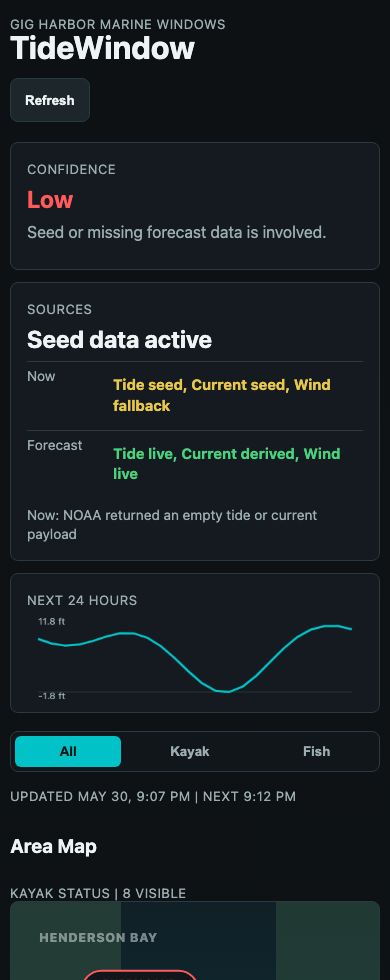
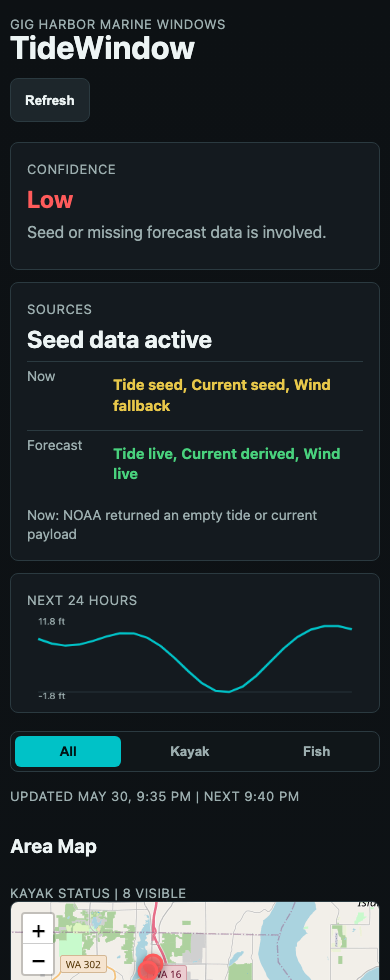
Replace schematic with Leaflet map

Changed region(s): [[0.0308, 0.9184, 0.9846, 1.0], [0.4, 0.7959, 0.7692, 0.8265]]

diff --git a/static/app.js b/static/app.js
@@ -10,6 +10,8 @@ const state = {
   nextRefreshAt: null,
   refreshTimer: null,
   visibleZoneIds: [],
+  leafletMap: null,
+  leafletMarkers: [],
 };
 
 const zoneDetails = {
@@ -278,30 +280,60 @@ function renderMap() {
     return;
   }
 
-  elements.zoneMap.innerHTML = `
-    <div class="map-water"></div>
-    <span class="map-label map-label-north">Henderson Bay</span>
-    <span class="map-label map-label-center">Gig Harbor</span>
-    <span class="map-label map-label-south">Hale Passage</span>
-    ${zones.map((zone) => {
-      const evaluation = mode === "Fish" ? zone.fish : zone.kayak;
-      return `
-        <button
-          class="map-marker status-${evaluation.color}"
-          type="button"
-          style="left: ${Number(zone.map.x)}%; top: ${Number(zone.map.y)}%;"
-          data-zone-id="${escapeHtml(zone.id)}"
-          title="${escapeHtml(zone.title)}"
-        >
-          <span>${escapeHtml(shortZoneTitle(zone.title))}</span>
-        </button>
-      `;
-    }).join("")}
-  `;
+  if (!window.L) {
+    elements.zoneMap.innerHTML = `<div class="empty">Leaflet map assets did not load.</div>`;
+    return;
+  }
 
-  elements.zoneMap.querySelectorAll(".map-marker").forEach((button) => {
-    button.addEventListener("click", () => openZoneDetails(button.dataset.zoneId));
+  initializeLeafletMap();
+  state.leafletMarkers.forEach((marker) => marker.remove());
+  state.leafletMarkers = [];
+
+  const bounds = [];
+  zones.forEach((zone) => {
+    if (!zone.map?.lat || !zone.map?.lon) return;
+    const evaluation = mode === "Fish" ? zone.fish : zone.kayak;
+    const marker = L.circleMarker([zone.map.lat, zone.map.lon], {
+      className: `leaflet-status-circle status-${evaluation.color}`,
+      radius: 9,
+      color: statusColor(evaluation.color),
+      fillColor: statusColor(evaluation.color),
+      fillOpacity: 0.72,
+      weight: 3,
+      title: zone.title,
+    });
+
+    marker.bindTooltip(`${zone.title}: ${evaluation.status}`, {
+      direction: "top",
+      offset: [0, -12],
+    });
+    marker.on("click", () => openZoneDetails(zone.id));
+    marker.addTo(state.leafletMap);
+    state.leafletMarkers.push(marker);
+    bounds.push([zone.map.lat, zone.map.lon]);
   });
+
+  if (bounds.length > 1) {
+    state.leafletMap.fitBounds(bounds, { padding: [38, 38], maxZoom: 12 });
+  } else if (bounds.length === 1) {
+    state.leafletMap.setView(bounds[0], 12);
+  }
+  setTimeout(() => state.leafletMap.invalidateSize(), 0);
+}
+
+function initializeLeafletMap() {
+  if (state.leafletMap) return;
+
+  elements.zoneMap.innerHTML = "";
+  state.leafletMap = L.map(elements.zoneMap, {
+    center: [47.32, -122.61],
+    zoom: 11,
+    scrollWheelZoom: false,
+  });
+  L.tileLayer("https://tile.openstreetmap.org/{z}/{x}/{y}.png", {
+    maxZoom: 18,
+    attribution: '&copy; <a href="https://www.openstreetmap.org/copyright">OpenStreetMap</a> contributors',
+  }).addTo(state.leafletMap);
 }
 
 function renderTimeline() {
@@ -535,6 +567,12 @@ function activity(label, evaluation) {
 function statusPill(status) {
   const color = status === "DANGER" ? "red" : status === "SAFE" || status === "OPTIMAL" ? "green" : "yellow";
   return `<span class="status-pill status-${color}">${escapeHtml(status)}</span>`;
+}
+
+function statusColor(color) {
+  if (color === "red") return "#ff5b5b";
+  if (color === "green") return "#49d17d";
+  return "#e8c84a";
 }
 
 function dataStatusRows(telemetry, forecast) {

diff --git a/static/styles.css b/static/styles.css
@@ -184,71 +184,38 @@ h2 {
 }
 
 .zone-map {
-  position: relative;
-  min-height: 320px;
+  height: 420px;
   overflow: hidden;
   border: 1px solid var(--line);
   border-radius: 8px;
-  background:
-    linear-gradient(90deg, rgba(42, 70, 58, 0.72) 0 30%, transparent 30% 72%, rgba(42, 70, 58, 0.66) 72% 100%),
-    linear-gradient(180deg, #112027 0%, #0c2931 44%, #10212a 100%);
-}
-
-.map-water {
-  position: absolute;
-  inset: 18% 24% 12% 28%;
-  border: 1px solid rgba(0, 194, 199, 0.36);
-  border-radius: 44% 52% 48% 40%;
-  background: rgba(0, 194, 199, 0.08);
-  transform: rotate(-12deg);
-}
-
-.map-label {
-  position: absolute;
-  color: rgba(237, 244, 244, 0.48);
-  font-size: 0.78rem;
-  font-weight: 800;
-  letter-spacing: 0.05em;
-  text-transform: uppercase;
-}
-
-.map-label-north {
-  left: 28px;
-  top: 28px;
-}
-
-.map-label-center {
-  left: 48%;
-  top: 45%;
-}
-
-.map-label-south {
-  bottom: 24px;
-  left: 36%;
-}
-
-.map-marker {
-  position: absolute;
-  min-width: 34px;
-  min-height: 34px;
-  max-width: 118px;
-  border: 2px solid currentColor;
-  border-radius: 999px;
-  padding: 6px 10px;
   background: #101619;
-  color: var(--text);
-  cursor: pointer;
-  font-size: 0.7rem;
-  font-weight: 900;
-  line-height: 1.1;
-  text-align: center;
-  transform: translate(-50%, -50%);
 }
 
-.map-marker:hover,
-.map-marker:focus-visible {
+.leaflet-container {
+  background: #101619;
+  color: #1b2a30;
+  font-family: inherit;
+}
+
+.leaflet-control-attribution {
+  font-size: 0.66rem;
+}
+
+.leaflet-status-circle {
+  cursor: pointer;
+  filter: drop-shadow(0 2px 4px rgba(0, 0, 0, 0.42));
+}
+
+.leaflet-status-circle:hover {
+  stroke-width: 5;
+}
+
+.leaflet-tooltip {
+  border: 1px solid var(--line);
+  border-radius: 6px;
   background: var(--panel-strong);
-  z-index: 2;
+  color: var(--text);
+  font-weight: 800;
 }
 
 .timeline-strip {
@@ -592,7 +559,7 @@ h2 {
   }
 
   .zone-map {
-    min-height: 420px;
+    height: 420px;
   }
 
   .location-tools {

diff --git a/static/index.html b/static/index.html
@@ -5,6 +5,12 @@
     <meta name="viewport" content="width=device-width, initial-scale=1">
     <title>TideWindow</title>
     <link rel="icon" href="data:,">
+    <link
+      rel="stylesheet"
+      href="https://unpkg.com/leaflet@1.9.4/dist/leaflet.css"
+      integrity="sha256-p4NxAoJBhIIN+hmNHrzRCf9tD/miZyoHS5obTRR9BMY="
+      crossorigin=""
+    >
     <link rel="stylesheet" href="/static/styles.css">
   </head>
   <body>
@@ -97,6 +103,11 @@
       </div>
     </dialog>
 
+    <script
+      src="https://unpkg.com/leaflet@1.9.4/dist/leaflet.js"
+      integrity="sha256-20nQCchB9co0qIjJZRGuk2/Z9VM+kNiyxNV1lvTlZBo="
+      crossorigin=""
+    ></script>
     <script src="/static/app.js" defer></script>
   </body>
 </html>

diff --git a/marine_config.py b/marine_config.py
@@ -37,64 +37,64 @@ ZONES = {
         "ui_prefix": "purdy",
         "current_multiplier": 1.4,
         "wind_multiplier": 0.8,
-        "map_x": 46,
-        "map_y": 30,
+        "lat": 47.389,
+        "lon": -122.625,
     },
     "gig_harbor": {
         "title": "INSIDE GIG HARBOR",
         "ui_prefix": "harbor",
         "fixed_current": 0.1,
         "wind_multiplier": 0.6,
-        "map_x": 56,
-        "map_y": 42,
+        "lat": 47.331,
+        "lon": -122.582,
     },
     "fox_island": {
         "title": "FOX ISLAND (HALE PASSAGE)",
         "ui_prefix": "fox",
         "current_multiplier": 0.65,
         "wind_multiplier": 1.2,
-        "map_x": 42,
-        "map_y": 70,
+        "lat": 47.261,
+        "lon": -122.605,
     },
     "sunrise_beach": {
         "title": "SUNRISE BEACH PARK",
         "ui_prefix": "sunrise",
         "current_multiplier": 0.75,
         "wind_multiplier": 1.15,
-        "map_x": 72,
-        "map_y": 31,
+        "lat": 47.351,
+        "lon": -122.513,
     },
     "narrows_park": {
         "title": "NARROWS PARK",
         "ui_prefix": "narrows",
         "current_multiplier": 1.15,
         "wind_multiplier": 1.25,
-        "map_x": 75,
-        "map_y": 77,
+        "lat": 47.280,
+        "lon": -122.548,
     },
     "fox_island_pier": {
         "title": "FOX ISLAND FISHING PIER",
         "ui_prefix": "foxpier",
         "current_multiplier": 0.9,
         "wind_multiplier": 1.25,
-        "map_x": 34,
-        "map_y": 61,
+        "lat": 47.252,
+        "lon": -122.629,
     },
     "purdy_sand_spit": {
         "title": "PURDY SAND SPIT",
         "ui_prefix": "purdysand",
         "current_multiplier": 1.25,
         "wind_multiplier": 0.9,
-        "map_x": 35,
-        "map_y": 21,
+        "lat": 47.386,
+        "lon": -122.629,
     },
     "kopachuck": {
         "title": "KOPACHUCK STATE PARK",
         "ui_prefix": "kopachuck",
         "current_multiplier": 0.45,
         "wind_multiplier": 0.95,
-        "map_x": 24,
-        "map_y": 46,
+        "lat": 47.307,
+        "lon": -122.680,
     },
 }
 
@@ -104,40 +104,40 @@ OPTIONAL_ZONES = {
         "ui_prefix": "wollochet",
         "fixed_current": 0.2,
         "wind_multiplier": 0.75,
-        "map_x": 47,
-        "map_y": 53,
+        "lat": 47.296,
+        "lon": -122.592,
     },
     "horsehead_bay": {
         "title": "HORSEHEAD BAY",
         "ui_prefix": "horsehead",
         "current_multiplier": 0.35,
         "wind_multiplier": 0.85,
-        "map_x": 18,
-        "map_y": 36,
+        "lat": 47.313,
+        "lon": -122.703,
     },
     "raft_island": {
         "title": "RAFT ISLAND",
         "ui_prefix": "raft",
         "current_multiplier": 0.55,
         "wind_multiplier": 1.0,
-        "map_x": 30,
-        "map_y": 38,
+        "lat": 47.331,
+        "lon": -122.668,
     },
     "rosedale_beach": {
         "title": "ROSEDALE GARDENS BEACH",
         "ui_prefix": "rosedale",
         "current_multiplier": 0.4,
         "wind_multiplier": 0.8,
-        "map_x": 48,
-        "map_y": 34,
+        "lat": 47.334,
+        "lon": -122.616,
     },
     "point_fosdick": {
         "title": "POINT FOSDICK SHORELINE",
         "ui_prefix": "fosdick",
         "current_multiplier": 0.5,
         "wind_multiplier": 1.0,
-        "map_x": 64,
-        "map_y": 58,
+        "lat": 47.299,
+        "lon": -122.579,
     },
 }
 

diff --git a/web_app.py b/web_app.py
@@ -88,8 +88,8 @@ async def api_state():
                 "title": zone_config["title"],
                 "active_by_default": zone_id in ZONES,
                 "map": {
-                    "x": zone_config.get("map_x", 50),
-                    "y": zone_config.get("map_y", 50),
+                    "lat": zone_config.get("lat"),
+                    "lon": zone_config.get("lon"),
                 },
                 "current": round(zone_data["current"], 2),
                 "wind": round(zone_data["wind"], 1),

diff --git a/README.md b/README.md
@@ -2,7 +2,7 @@
 
 TideWindow is a terminal and web marine-conditions dashboard for the Gig Harbor and Tacoma Narrows area. It combines NOAA tide/current observations with optional OpenWeather wind data, then scores eight local zones for kayaking and fly fishing. It also highlights the best kayak and fishing windows for the next 24 hours from NOAA tide predictions.
 
-The web dashboard adds a color-coded area map, an hourly tide/wind/activity timeline, a remembered activity mode, and local location controls. You can hide areas you do not use and add optional Gig Harbor-area locations such as Wollochet Bay, Horsehead Bay, Raft Island, Rosedale Gardens Beach, and Point Fosdick Shoreline.
+The web dashboard adds a Leaflet/OpenStreetMap area map, an hourly tide/wind/activity timeline, a remembered activity mode, and local location controls. You can hide areas you do not use and add optional Gig Harbor-area locations such as Wollochet Bay, Horsehead Bay, Raft Island, Rosedale Gardens Beach, and Point Fosdick Shoreline.
 
 ## Visuals
 
